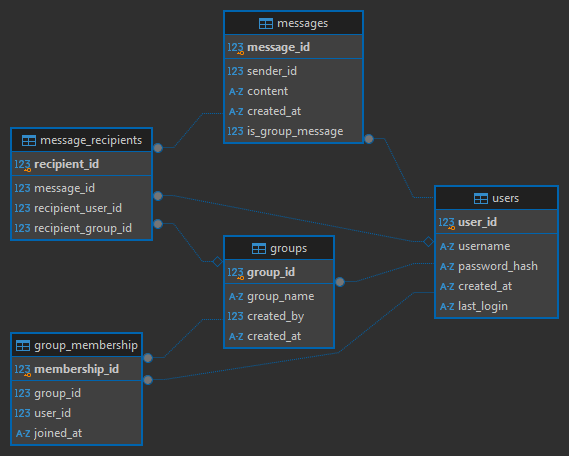
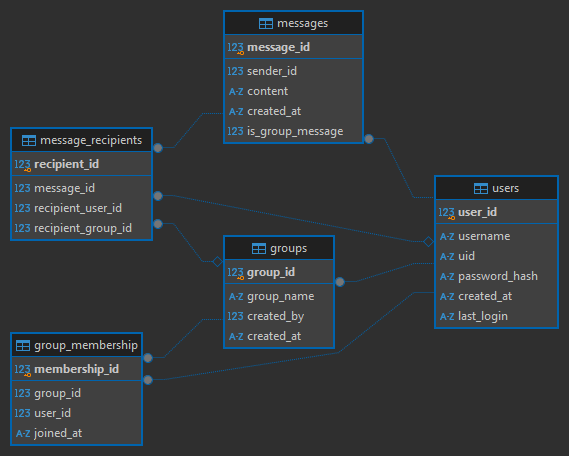
Update ERD, schema

Changed region(s): [[0.7469, 0.3684, 0.9859, 0.7368]]

diff --git a/server/src/server.c b/server/src/server.c
@@ -35,6 +35,7 @@ int connect_db(sqlite3** db, char* db_name)
     char* sql = "CREATE TABLE IF NOT EXISTS users ("
         "user_id INTEGER PRIMARY KEY AUTOINCREMENT, "
         "username TEXT NOT NULL UNIQUE, "
+        "uid TEXT NOT NULL UNIQUE, "
         "password_hash TEXT NOT NULL, "
         "created_at TEXT DEFAULT CURRENT_TIMESTAMP, "
         "last_login TEXT"

diff --git a/database/README.md b/database/README.md
@@ -12,24 +12,25 @@ This document describes the database schema for the messaging system, supporting
 
 Stores user information.
 
-| Column        | Type    | Constraints                         |
-|---------------|---------|-------------------------------------|
-| `user_id`    | INTEGER | PRIMARY KEY AUTOINCREMENT           |
-| `username`    | TEXT    | NOT NULL UNIQUE                     |
-| `password_hash` | TEXT  | NOT NULL                            |
-| `created_at` | TEXT    | DEFAULT CURRENT_TIMESTAMP           |
-| `last_login` | TEXT    |                                     |
+| Column          | Type    | Constraints                         |
+|-----------------|---------|-------------------------------------|
+| `user_id`       | INTEGER | PRIMARY KEY AUTOINCREMENT           |
+| `username`      | TEXT    | NOT NULL UNIQUE                     |
+| `uid`           | TEXT    | NOT NULL UNIQUE                     |
+| `password_hash` | TEXT    | NOT NULL                            |
+| `created_at`    | TEXT    | DEFAULT CURRENT_TIMESTAMP           |
+| `last_login`    | TEXT    |                                     |
 
 ### 2. Groups Table
 
 Stores group information.
 
-| Column        | Type    | Constraints                                      |
-|---------------|---------|--------------------------------------------------|
-| `group_id`   | INTEGER | PRIMARY KEY AUTOINCREMENT                        |
-| `group_name` | TEXT    | NOT NULL UNIQUE                                  |
-| `created_by` | INTEGER | NOT NULL, FOREIGN KEY REFERENCES users(user_id) |
-| `created_at` | TEXT    | DEFAULT CURRENT_TIMESTAMP                        |
+| Column       | Type     | Constraints                                      |
+|--------------|----------|--------------------------------------------------|
+| `group_id`   | INTEGER  | PRIMARY KEY AUTOINCREMENT                        |
+| `group_name` | TEXT     | NOT NULL UNIQUE                                  |
+| `created_by` | INTEGER  | NOT NULL, FOREIGN KEY REFERENCES users(user_id)  |
+| `created_at` | TEXT     | DEFAULT CURRENT_TIMESTAMP                        |
 
 ### 3. Group Membership Table
 
@@ -39,33 +40,33 @@ Manages relationships between users and groups.
 |-----------------|---------|--------------------------------------------------|
 | `membership_id` | INTEGER | PRIMARY KEY AUTOINCREMENT                        |
 | `group_id`      | INTEGER | NOT NULL, FOREIGN KEY REFERENCES groups(group_id)|
-| `user_id`       | INTEGER | NOT NULL, FOREIGN KEY REFERENCES users(user_id) |
+| `user_id`       | INTEGER | NOT NULL, FOREIGN KEY REFERENCES users(user_id)  |
 | `joined_at`     | TEXT    | DEFAULT CURRENT_TIMESTAMP                        |
 
 ### 4. Messages Table
 
 Stores messages sent by users.
 
-| Column          | Type    | Constraints                                      |
-|-----------------|---------|--------------------------------------------------|
-| `message_id`    | INTEGER | PRIMARY KEY AUTOINCREMENT                        |
-| `sender_id`     | INTEGER | NOT NULL, FOREIGN KEY REFERENCES users(user_id) |
-| `content`       | TEXT    | NOT NULL                                        |
-| `created_at`    | TEXT    | DEFAULT CURRENT_TIMESTAMP                        |
-| `is_group_message` | BOOLEAN | DEFAULT FALSE                                  |
+| Column             | Type    | Constraints                                      |
+|--------------------|---------|--------------------------------------------------|
+| `message_id`       | INTEGER | PRIMARY KEY AUTOINCREMENT                        |
+| `sender_id`        | INTEGER | NOT NULL, FOREIGN KEY REFERENCES users(user_id)  |
+| `content`          | TEXT    | NOT NULL                                         |
+| `created_at`       | TEXT    | DEFAULT CURRENT_TIMESTAMP                        |
+| `is_group_message` | BOOLEAN | DEFAULT FALSE                                    |
 
 ### 5. Message Recipients Table
 
 Tracks recipients for each message.
 
-| Column                 | Type    | Constraints                                      |
-|------------------------|---------|--------------------------------------------------|
-| `recipient_id`         | INTEGER | PRIMARY KEY AUTOINCREMENT                        |
+| Column                 | Type    | Constraints                                           |
+|------------------------|---------|-------------------------------------------------------|
+| `recipient_id`         | INTEGER | PRIMARY KEY AUTOINCREMENT                             |
 | `message_id`           | INTEGER | NOT NULL, FOREIGN KEY REFERENCES messages(message_id) |
-| `recipient_user_id`    | INTEGER | FOREIGN KEY REFERENCES users(user_id)            |
-| `recipient_group_id`   | INTEGER | FOREIGN KEY REFERENCES groups(group_id)          |
-| CHECK (recipient_user_id IS NOT NULL OR recipient_group_id IS NOT NULL) |
-| CHECK (recipient_user_id IS NULL OR recipient_group_id IS NULL) |
+| `recipient_user_id`    | INTEGER | FOREIGN KEY REFERENCES users(user_id)                 |
+| `recipient_group_id`   | INTEGER | FOREIGN KEY REFERENCES groups(group_id)               |
+| CHECK (recipient_user_id IS NOT NULL OR recipient_group_id IS NOT NULL)                  |
+| CHECK (recipient_user_id IS NULL OR recipient_group_id IS NULL)                          |
 
 ## Relationships
 
